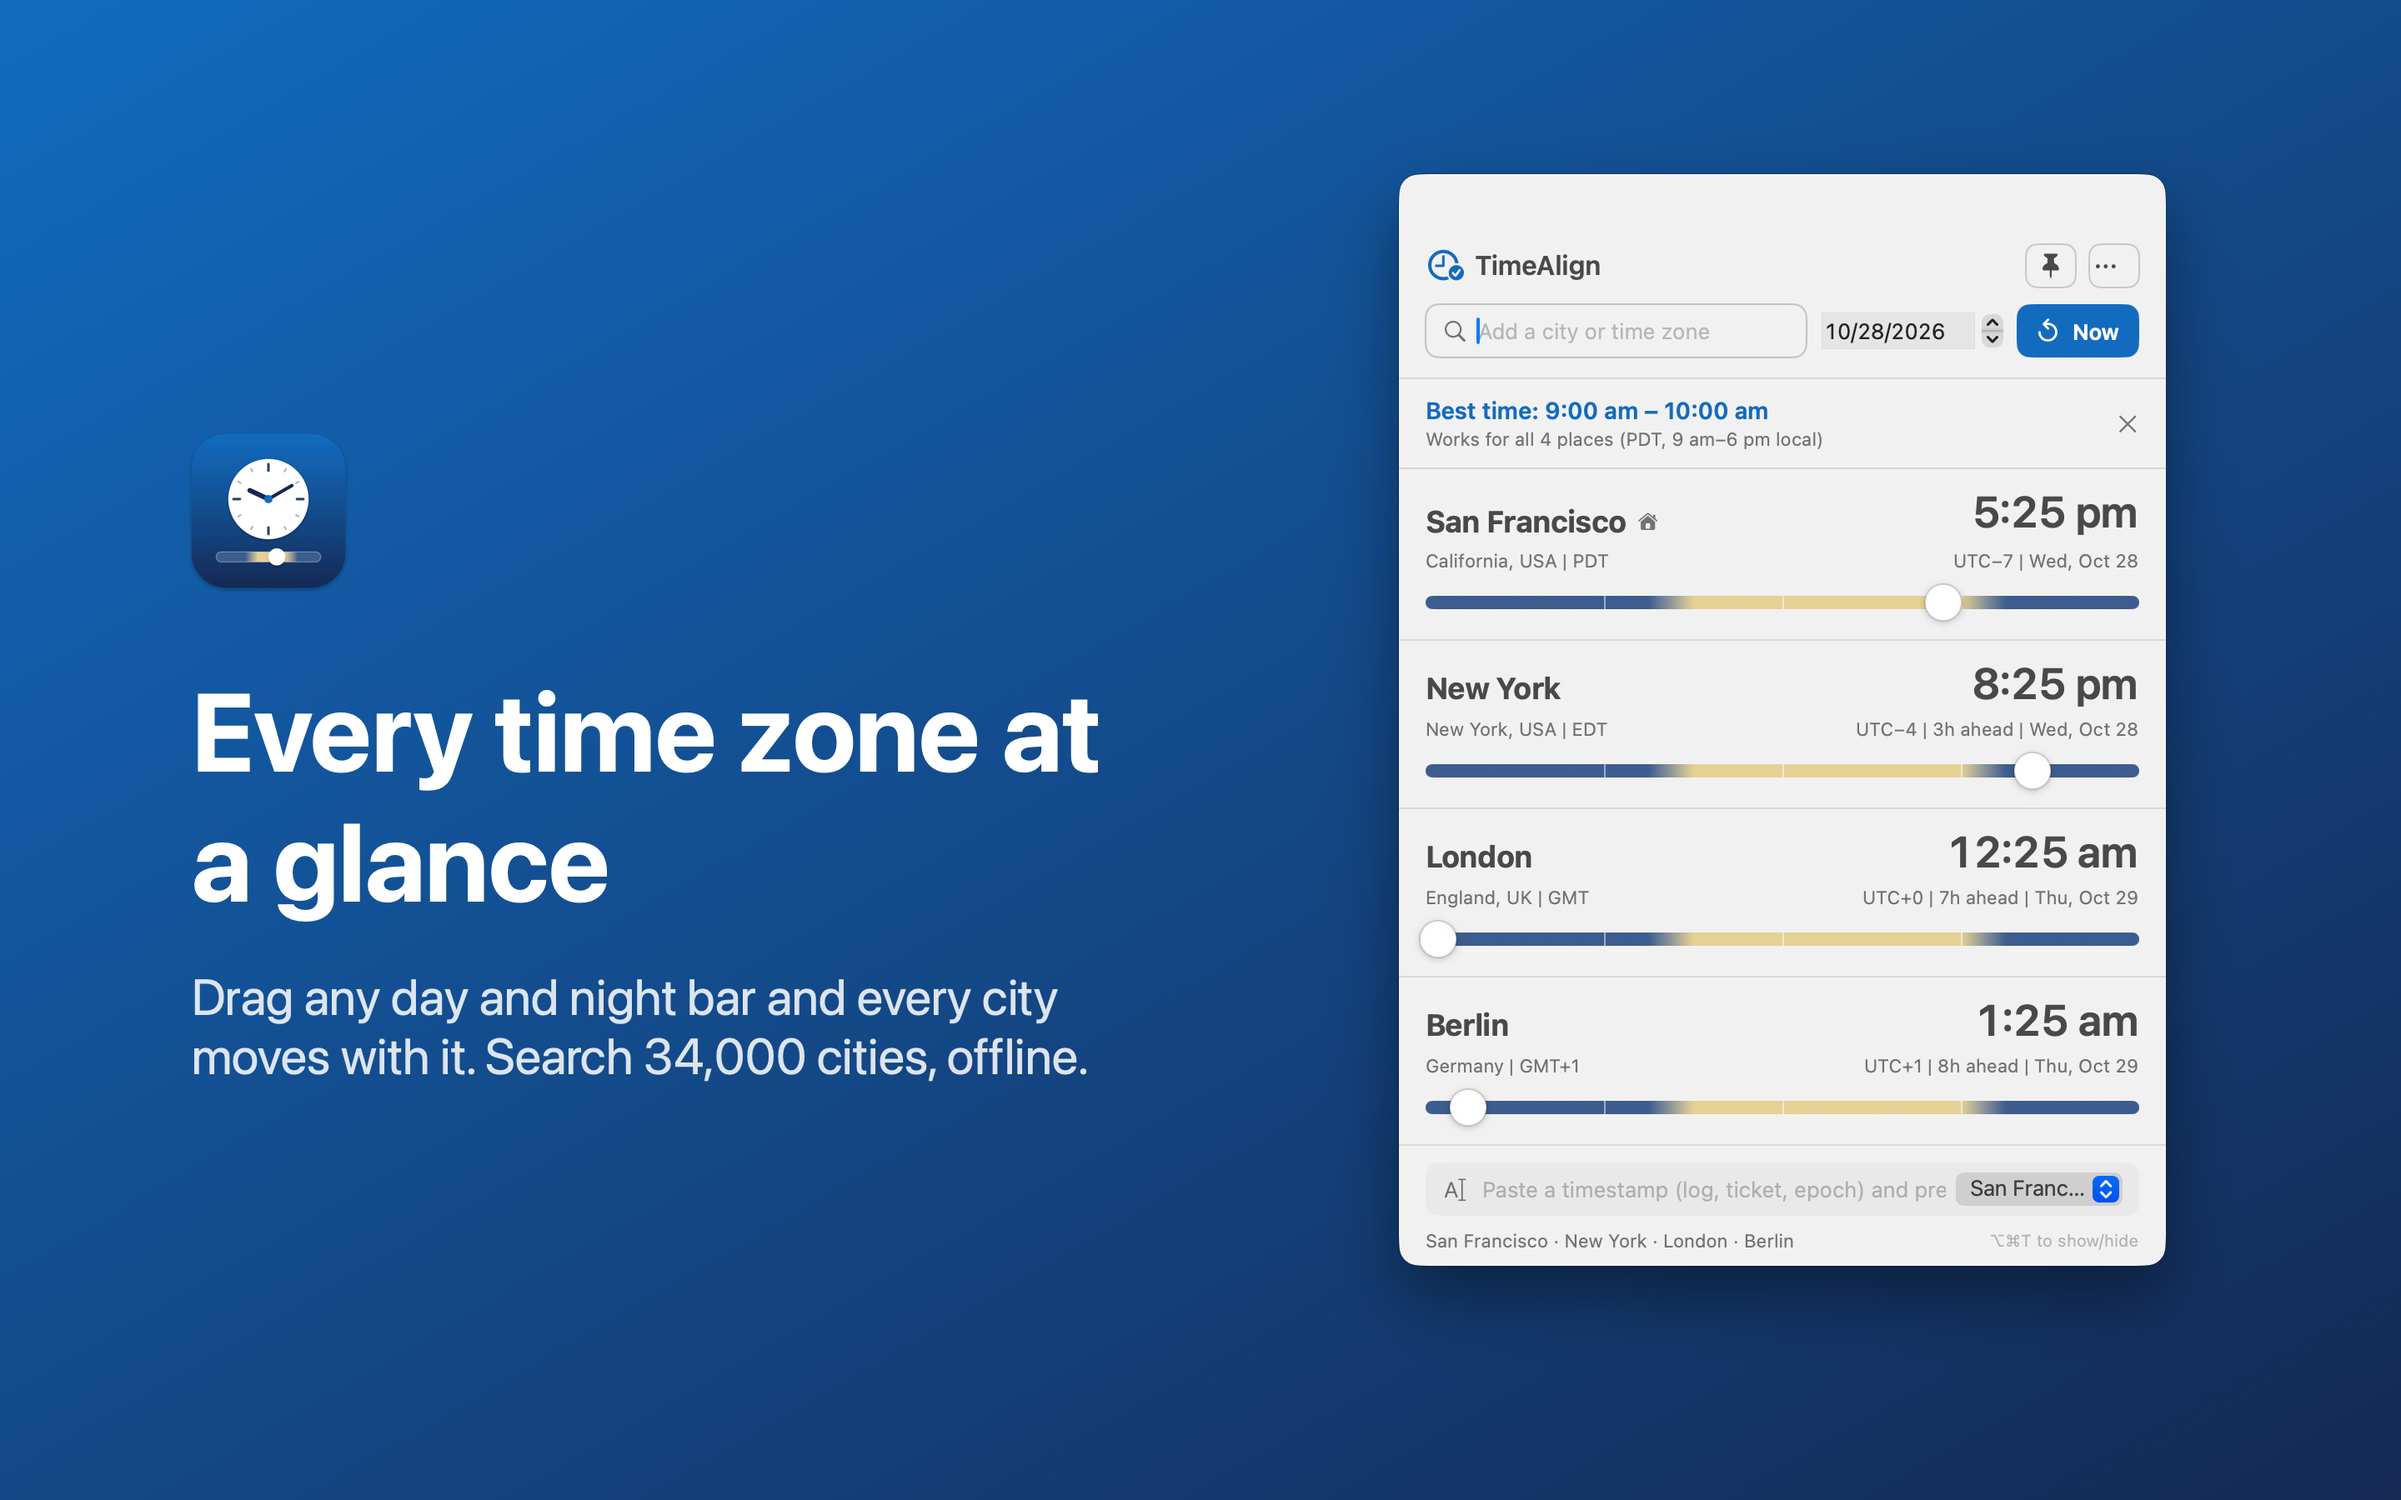
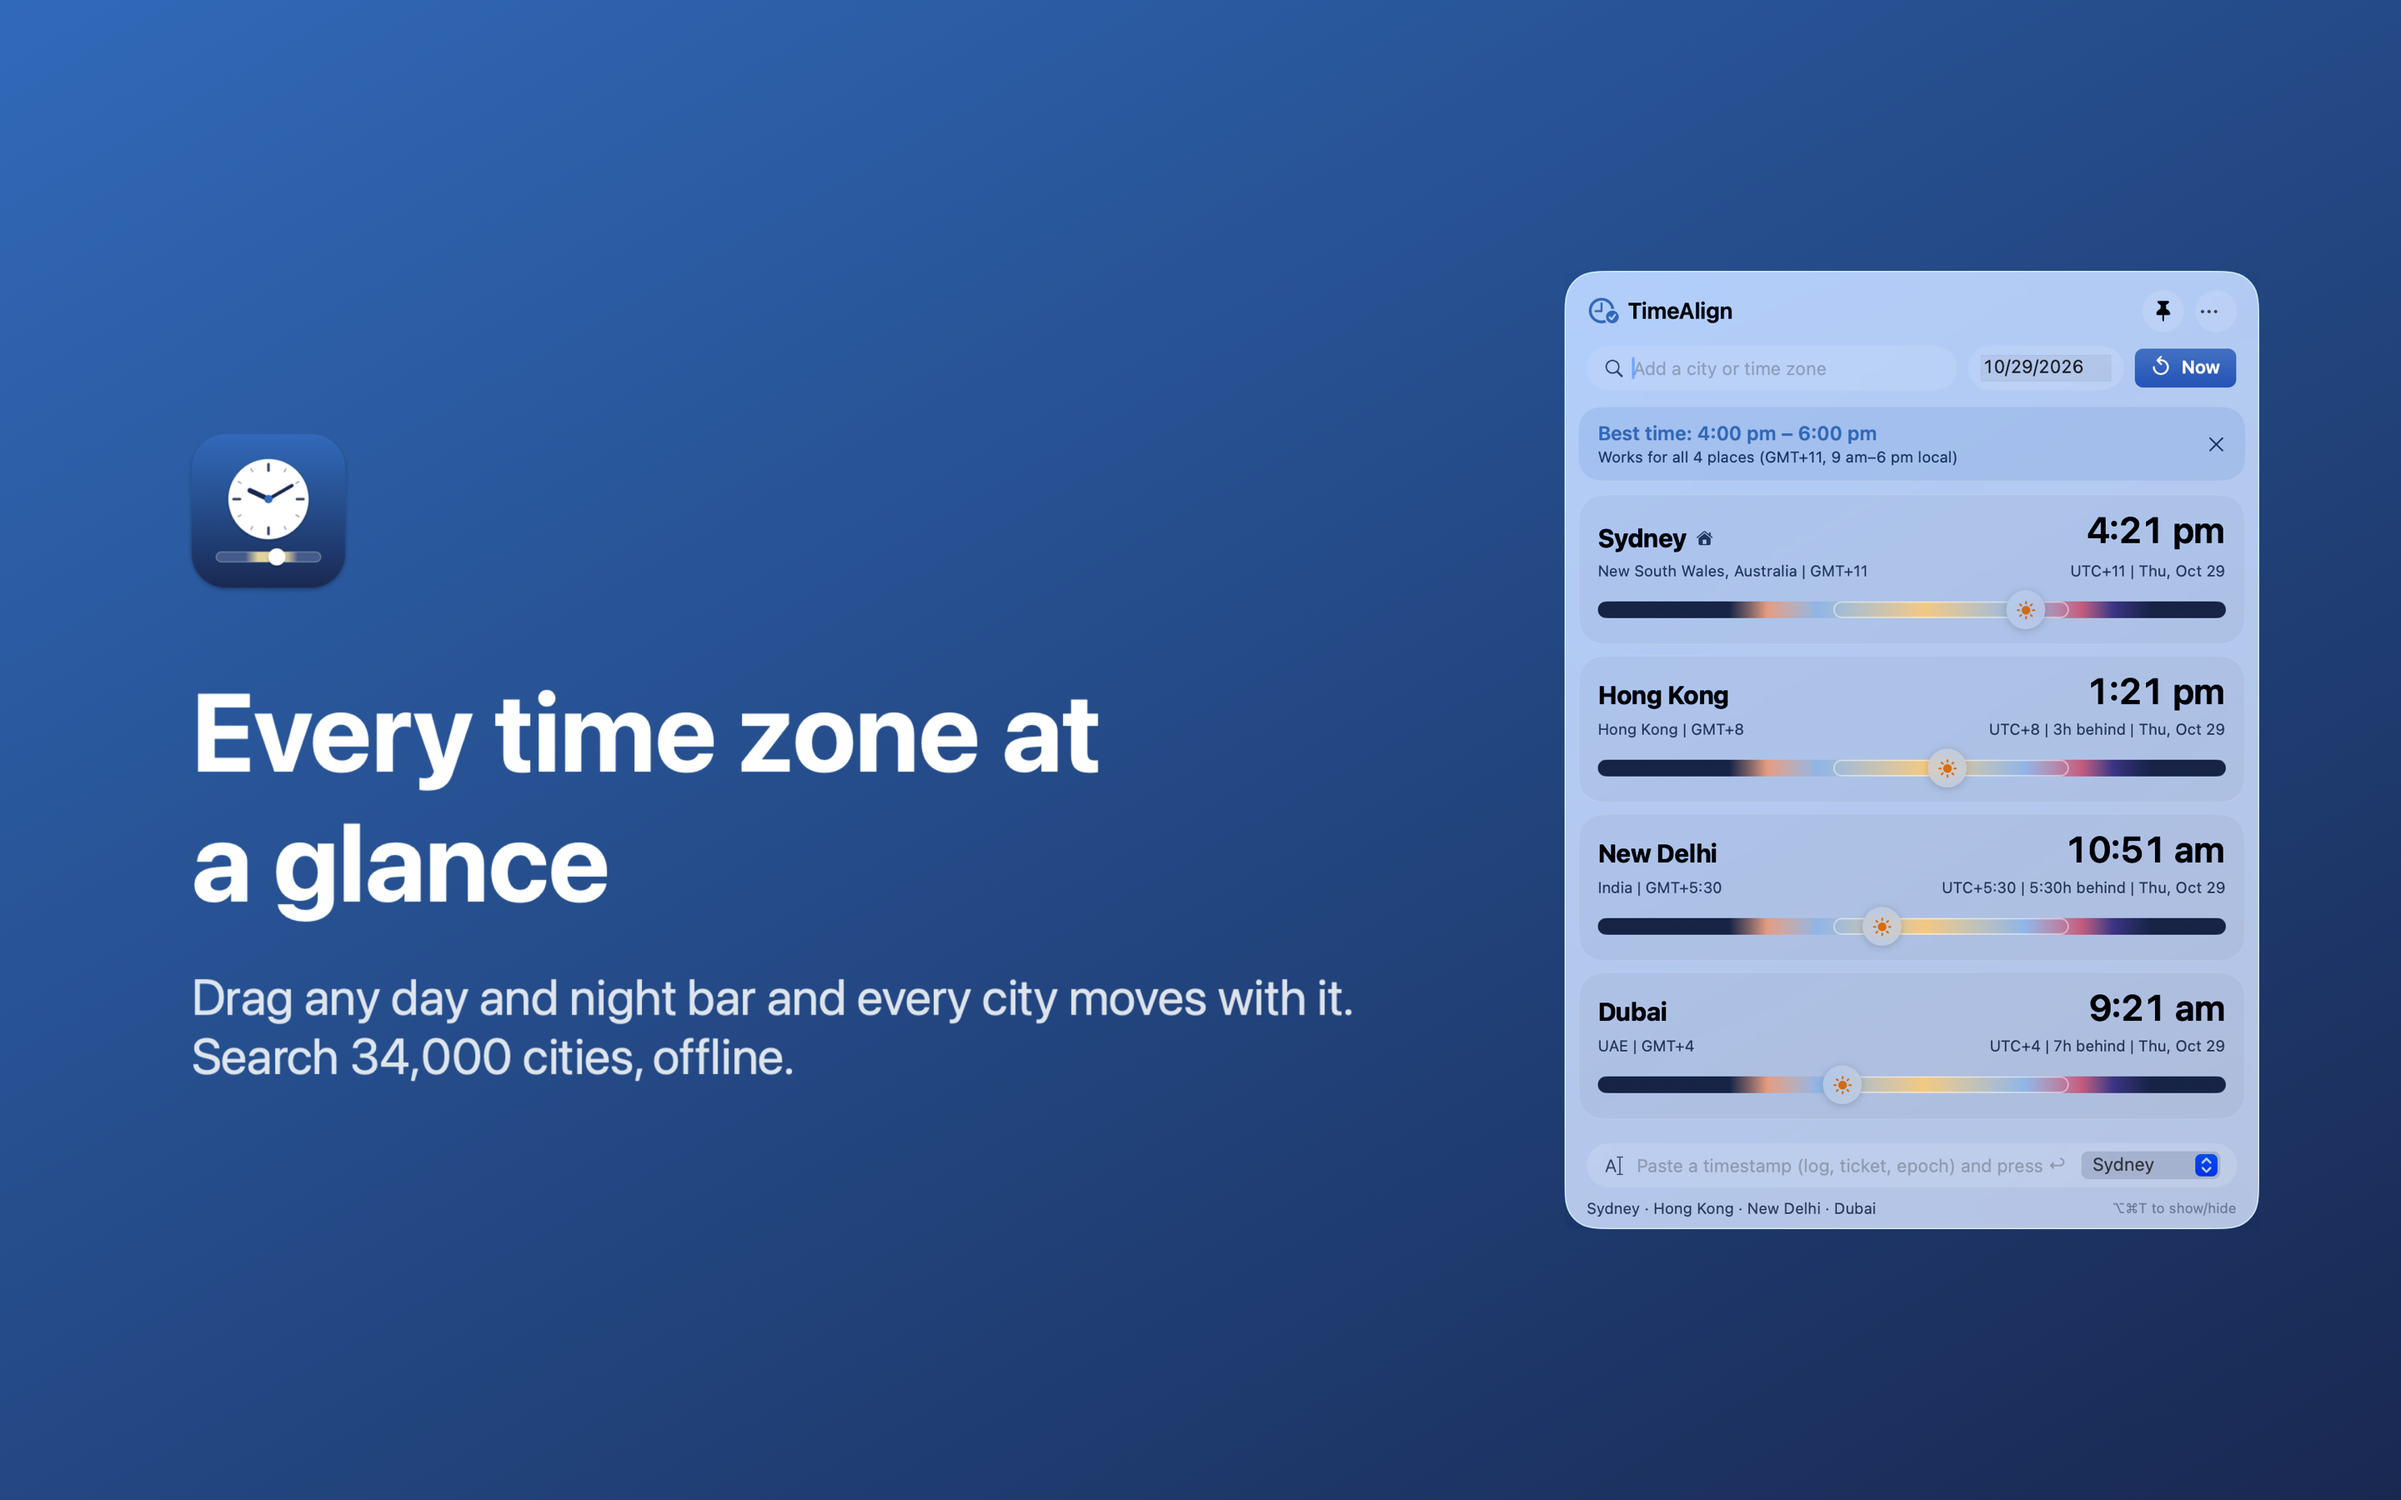
App Store screenshots for the Liquid Glass design
Glass shows what is behind it, so the panel is now captured live over a
backdrop window showing the screenshot canvas (tools/backdrop.swift) instead
of being composited from a window capture.

diff --git a/tools/make_screenshot.swift b/tools/make_screenshot.swift
@@ -1,11 +1,14 @@
 // Composes a 2880x1800 Mac App Store screenshot: headline and icon on the left, a captured
 // panel (screencapture -l <window>, with its shadow) on the right, on the icon's blue gradient.
 //   swift tools/make_screenshot.swift <panel.png> <out.png> "<headline>" "<subline>"
+// With "-" for the panel it leaves the right side empty: show that canvas with tools/backdrop.swift,
+// float the real (glass) panel over it, and capture the screen, so the glass picks up the gradient.
 import AppKit
 
 let args = CommandLine.arguments
-guard args.count == 5, let panel = NSImage(contentsOfFile: args[1]) else {
-    print("usage: make_screenshot.swift <panel.png> <out.png> <headline> <subline>"); exit(1)
+let panel = args.count == 5 && args[1] != "-" ? NSImage(contentsOfFile: args[1]) : nil
+guard args.count == 5, panel != nil || args[1] == "-" else {
+    print("usage: make_screenshot.swift <panel.png | -> <out.png> <headline> <subline>"); exit(1)
 }
 let root = URL(fileURLWithPath: #filePath).deletingLastPathComponent().deletingLastPathComponent()
 let icon = NSImage(contentsOf: root.appendingPathComponent("Resources/AppIcon-1024.png"))!
@@ -24,9 +27,11 @@ let navy = NSColor(red: 0.08, green: 0.16, blue: 0.33, alpha: 1)
 NSGradient(starting: accent, ending: navy)!.draw(in: NSRect(x: 0, y: 0, width: W, height: H), angle: -60)
 
 // Panel, pixel for pixel (captures are @2x), centered vertically on the right
-let px = panel.representations.first.map { NSSize(width: $0.pixelsWide, height: $0.pixelsHigh) } ?? panel.size
+// No panel: reserve the width a 500-point panel takes on a 1728-point screen showing this canvas.
+let px = panel.map { p in p.representations.first.map { NSSize(width: $0.pixelsWide, height: $0.pixelsHigh) } ?? p.size }
+    ?? NSSize(width: 834, height: 0)
 let pr = NSRect(x: CGFloat(W) - px.width - 170, y: (CGFloat(H) - px.height) / 2, width: px.width, height: px.height)
-panel.draw(in: pr)
+panel?.draw(in: pr)
 
 // Left column: icon, headline, subline
 let left: CGFloat = 230, colWidth = pr.minX - left - 120

diff --git a/tools/backdrop.swift b/tools/backdrop.swift
@@ -1,0 +1,26 @@
+// Shows an image in a plain window so the glass panel can be captured over it (App Store
+// screenshots and preview recordings). Runs until killed.
+//   swift tools/backdrop.swift <image> <x> <y> <width> <height>    (points, top-left origin)
+import AppKit
+
+let args = CommandLine.arguments
+guard args.count == 6, let image = NSImage(contentsOfFile: args[1]) else {
+    print("usage: backdrop.swift <image> <x> <y> <width> <height>"); exit(1)
+}
+let v = args[2...5].map { CGFloat(Double($0)!) }
+let screen = NSScreen.screens[0].frame
+let rect = NSRect(x: v[0], y: screen.height - v[1] - v[3], width: v[2], height: v[3])
+
+let app = NSApplication.shared
+app.setActivationPolicy(.accessory)
+let window = NSWindow(contentRect: rect, styleMask: .borderless, backing: .buffered, defer: false)
+let view = NSImageView(frame: NSRect(origin: .zero, size: rect.size))
+view.image = image
+view.imageScaling = .scaleAxesIndependently
+window.contentView = view
+window.hasShadow = false
+// Above ordinary app windows (so it can be staged from any app) but below TimeAlign's floating panel.
+window.level = NSWindow.Level(rawValue: NSWindow.Level.normal.rawValue + 1)
+window.makeKeyAndOrderFront(nil)
+app.activate(ignoringOtherApps: true)
+app.run()

diff --git a/CLAUDE.md b/CLAUDE.md
@@ -45,6 +45,13 @@ modeled on the Savvy Time web widget. Built for triaging and aligning timestamps
   launching the binary with argument-domain overrides (`-places.v1 <hex data> -use24h YES
   -"NSWindow Frame TimeAlignPanel" "x y w h ..."`) so real settings are untouched, then
   `screencapture -l <window id>`. Privacy policy: `PRIVACY.md` (linked from App Store Connect).
+  Since the Liquid Glass redesign (1.1) the panel shows what is behind it, so capture over a stage
+  instead: `make_screenshot.swift - out.png ...` renders the canvas without a panel,
+  `tools/backdrop.swift <image> x y w h` shows it in a window just above normal windows, the floating
+  panel goes on top (`NSWindow Frame` override), then `screencapture -R` the region and scale to
+  2880x1800 (flatten alpha). The App Preview is recorded the same way over the
+  `make_preview_assets.swift` bg.png, with the user doing the actions. Pick cities whose working hours
+  overlap after any city added on camera, or the Best time banner disappears.
 - Gotcha: once `~/Library/Containers/com.vinay.timealign` exists (from running a sandboxed build),
   `defaults read/write com.vinay.timealign` targets the container, not the plist the normal build uses.
 
